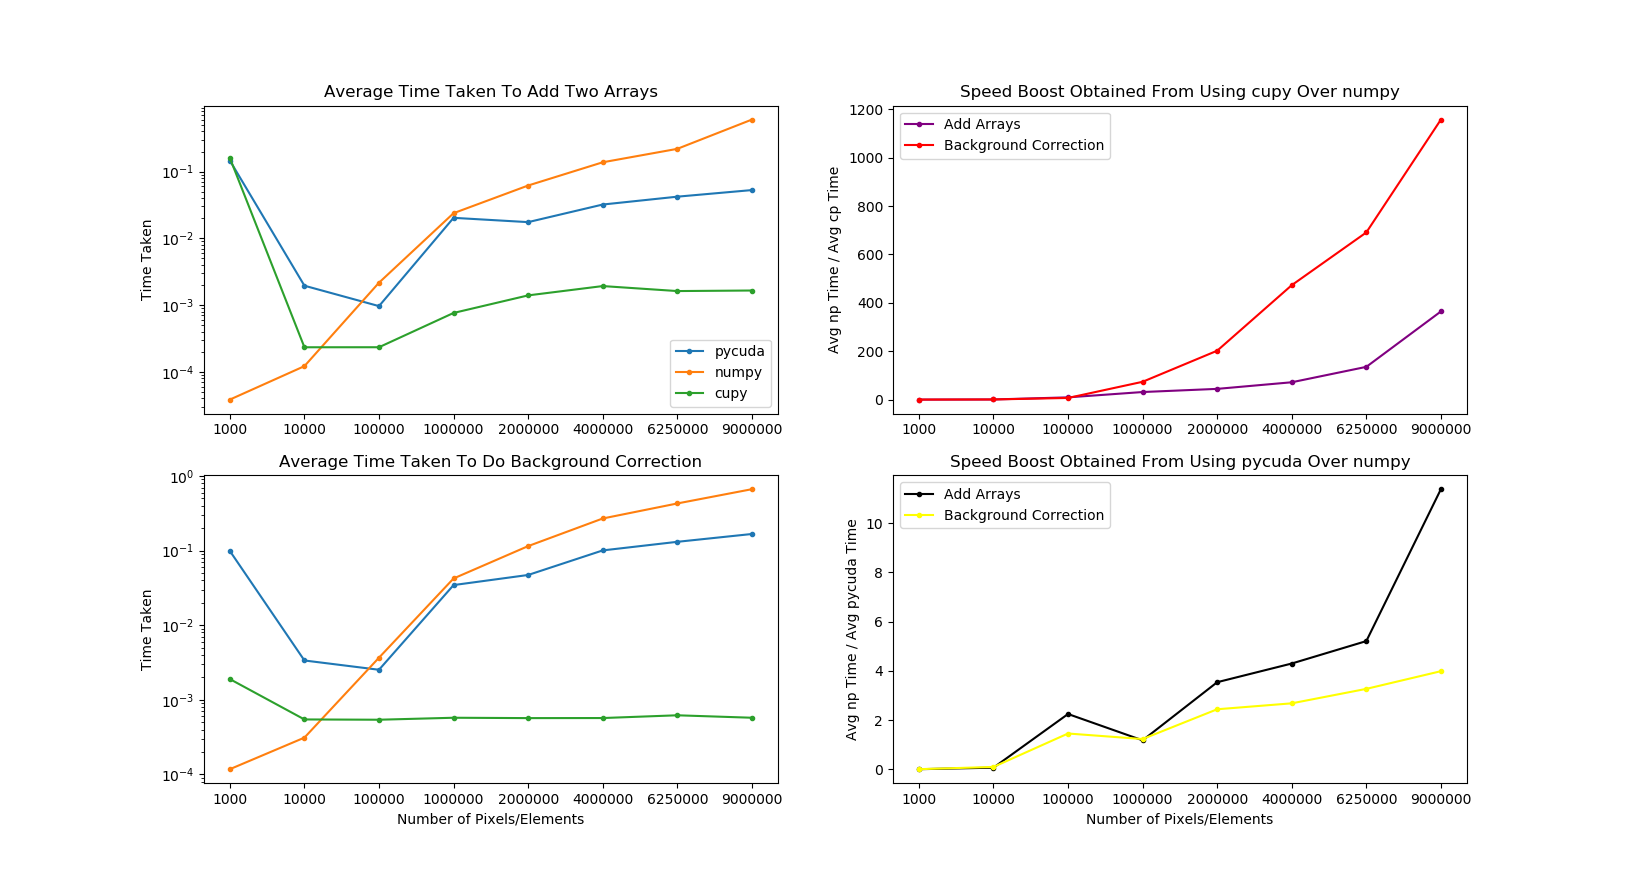
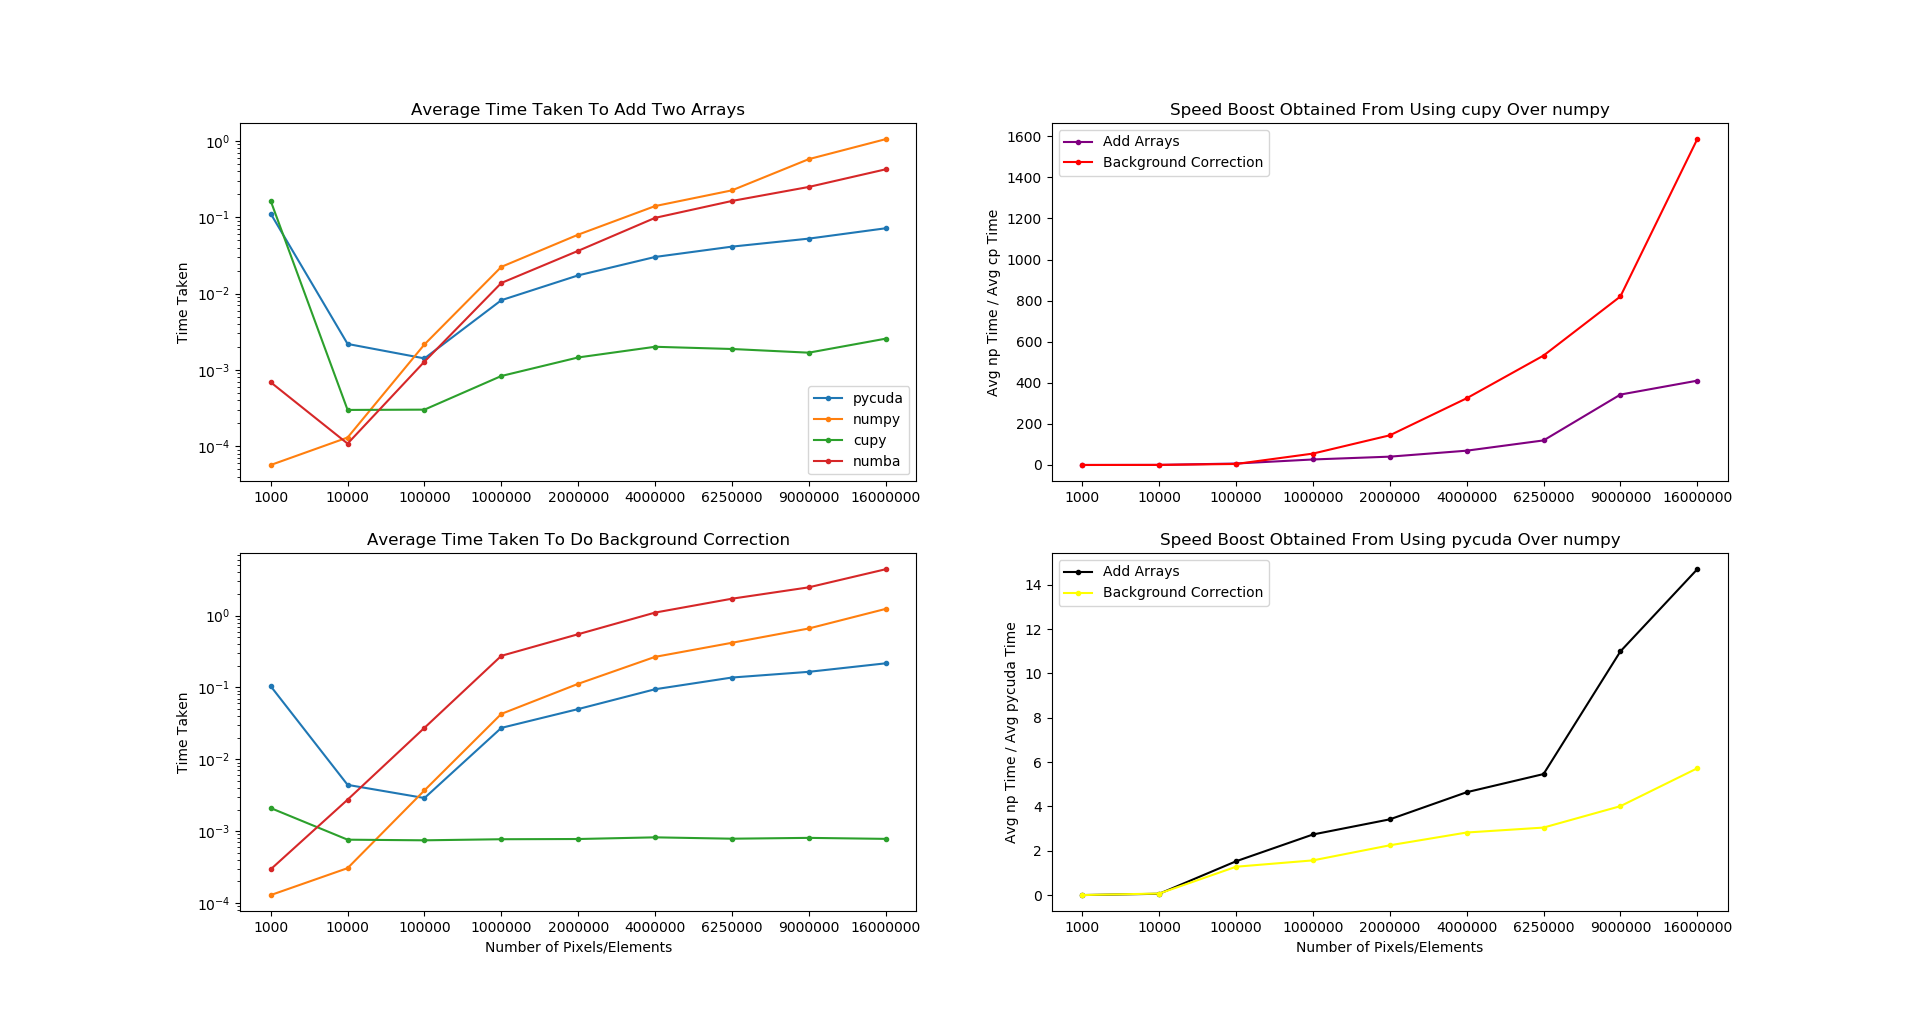
seeing if nopython option helps

diff --git a/gputest.py b/gputest.py
@@ -82,14 +82,14 @@ class NumbaImplementation(ImagingTester):
         super().__init__(size)
 
     @staticmethod
-    @jit("void(float64[:,:],float64[:,:])")
+    @jit("void(float64[:,:],float64[:,:])", nopython=True)
     def add_arrays(arr1, arr2):
         for i in range(len(arr1)):
             for j in range(len(arr1[0])):
                 arr1[i][j] += arr2[i][j]
 
     @staticmethod
-    @jit("void(float64[:,:],float64[:,:],float64[:,:])")
+    @jit("void(float64[:,:],float64[:,:],float64[:,:])", nopython=True)
     def background_correction(data, dark, flat):
         for i in range(len(data)):
             for j in range(len(data[0])):
@@ -113,6 +113,7 @@ array_sizes = [
     (2000, 2000),
     (2500, 2500),
     (3000, 3000),
+    (4000, 4000),
 ]
 total_pixels = [x[0] * x[1] for x in array_sizes]
 
